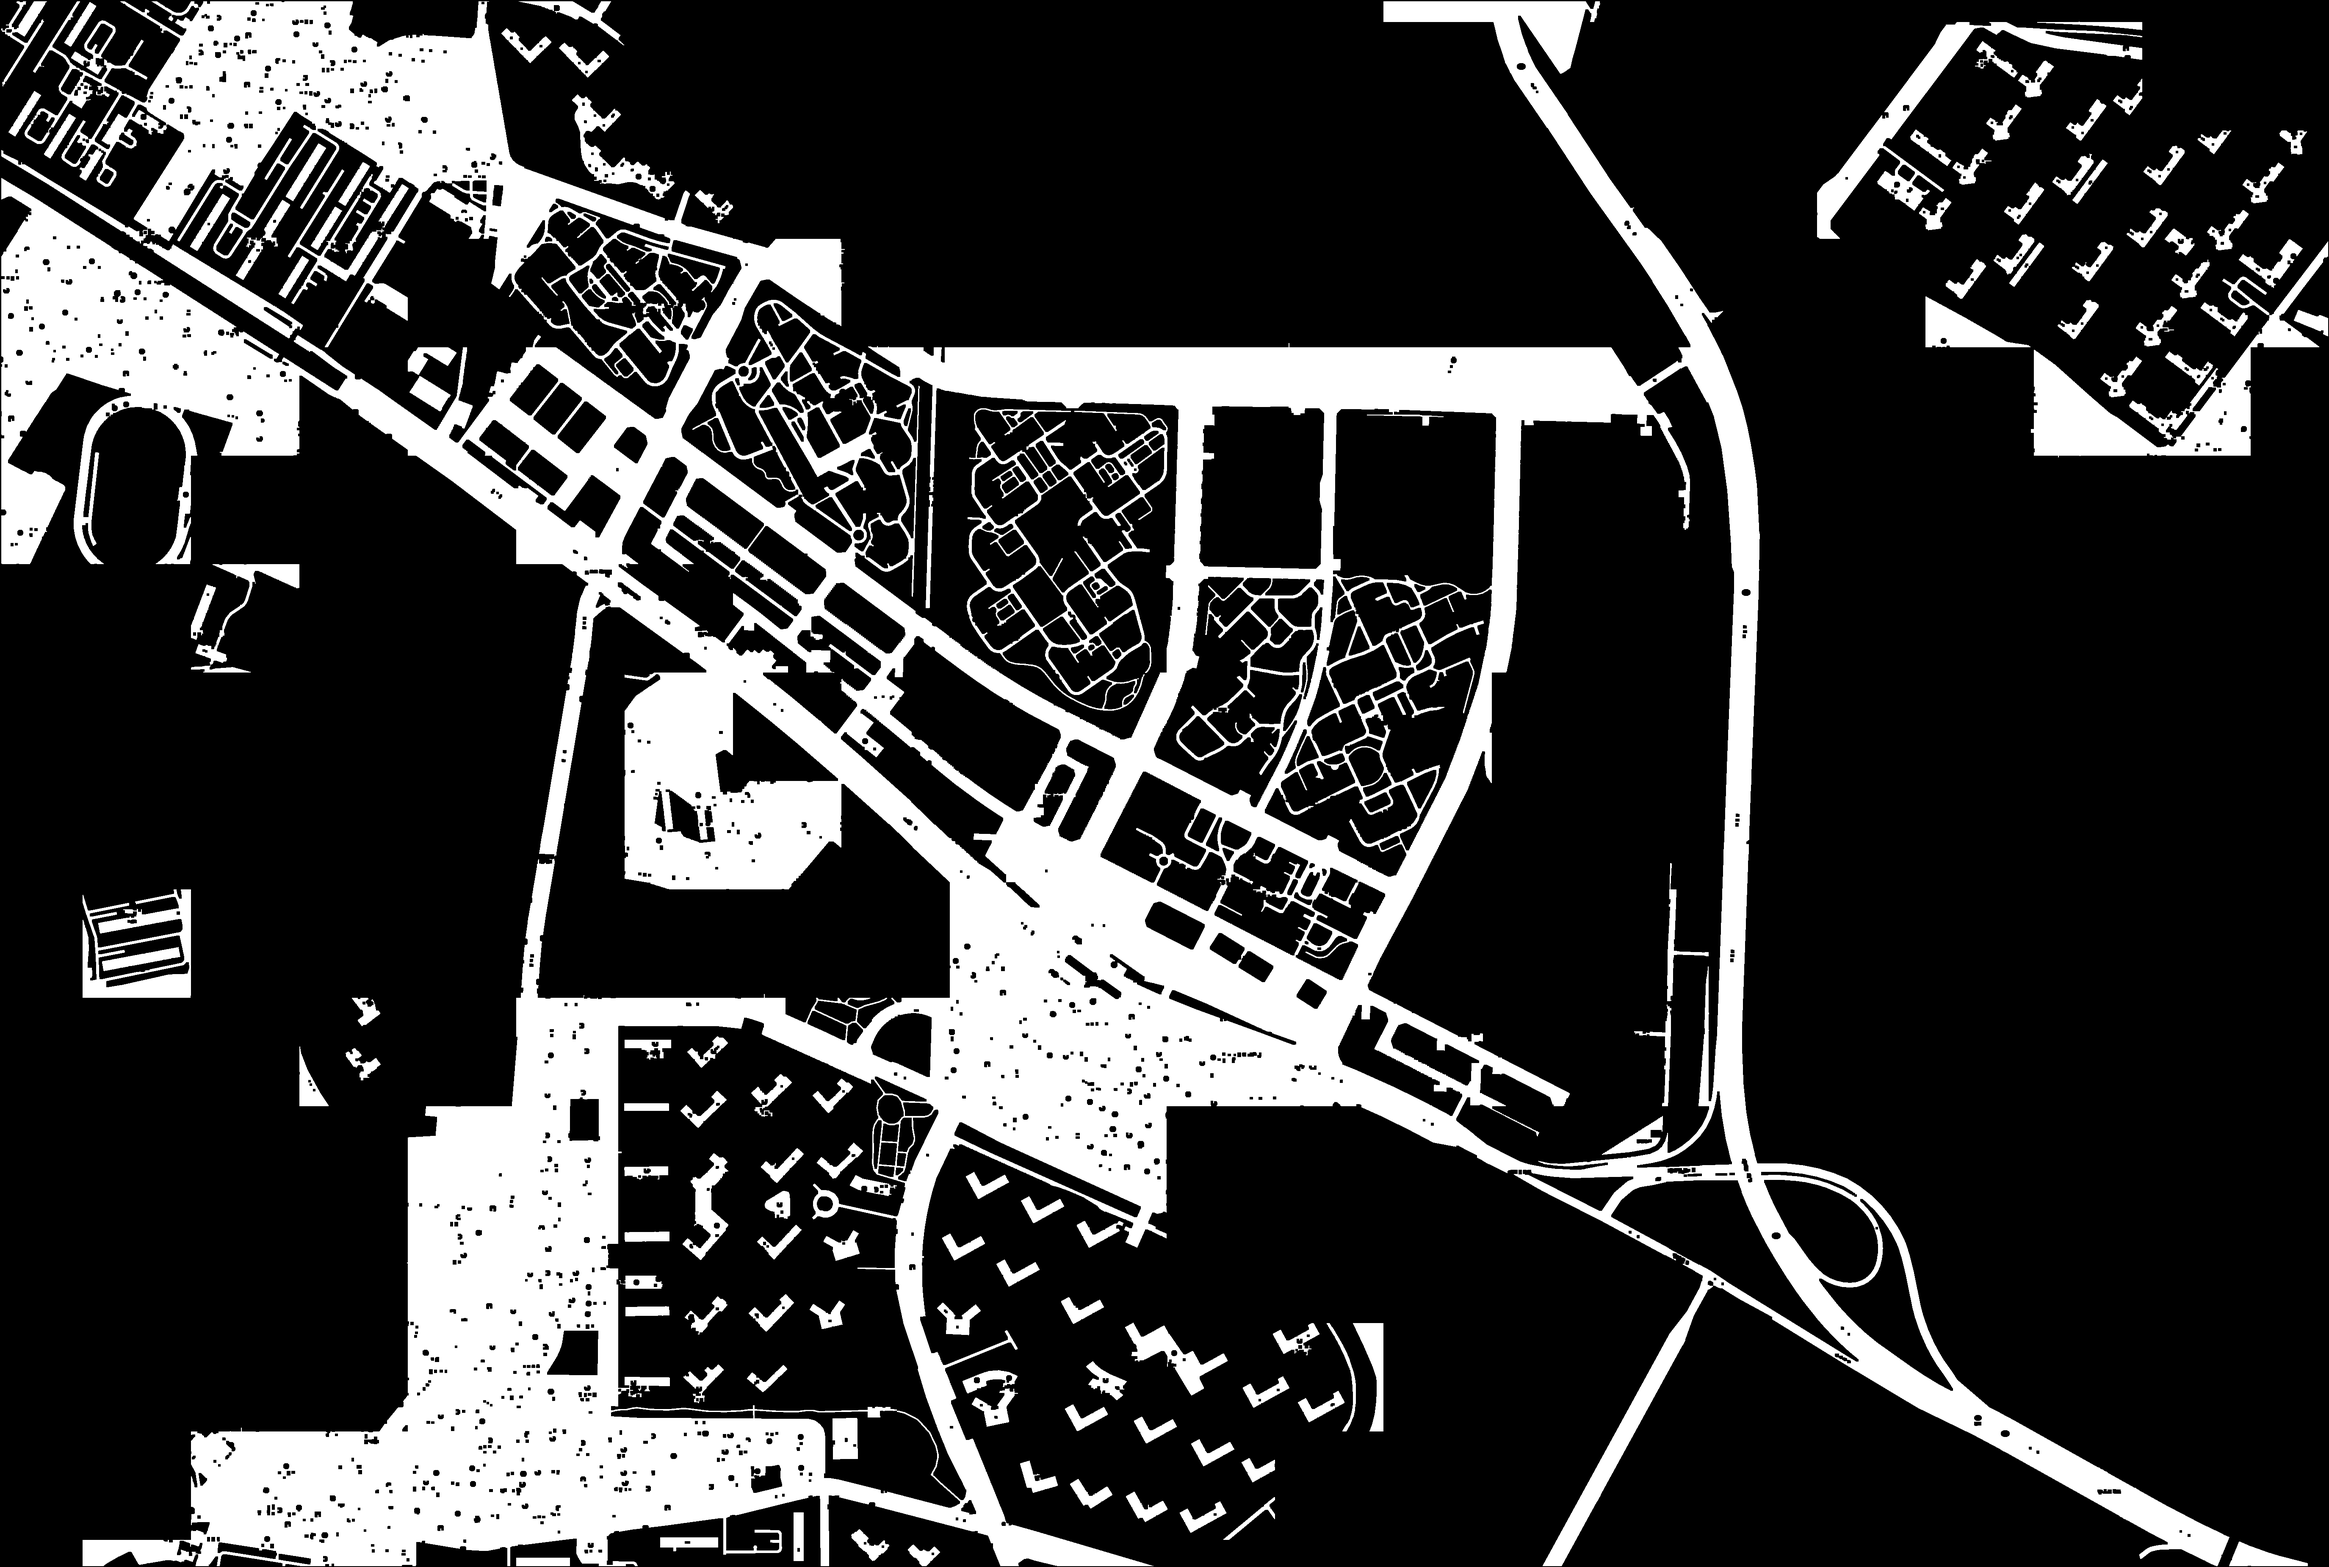
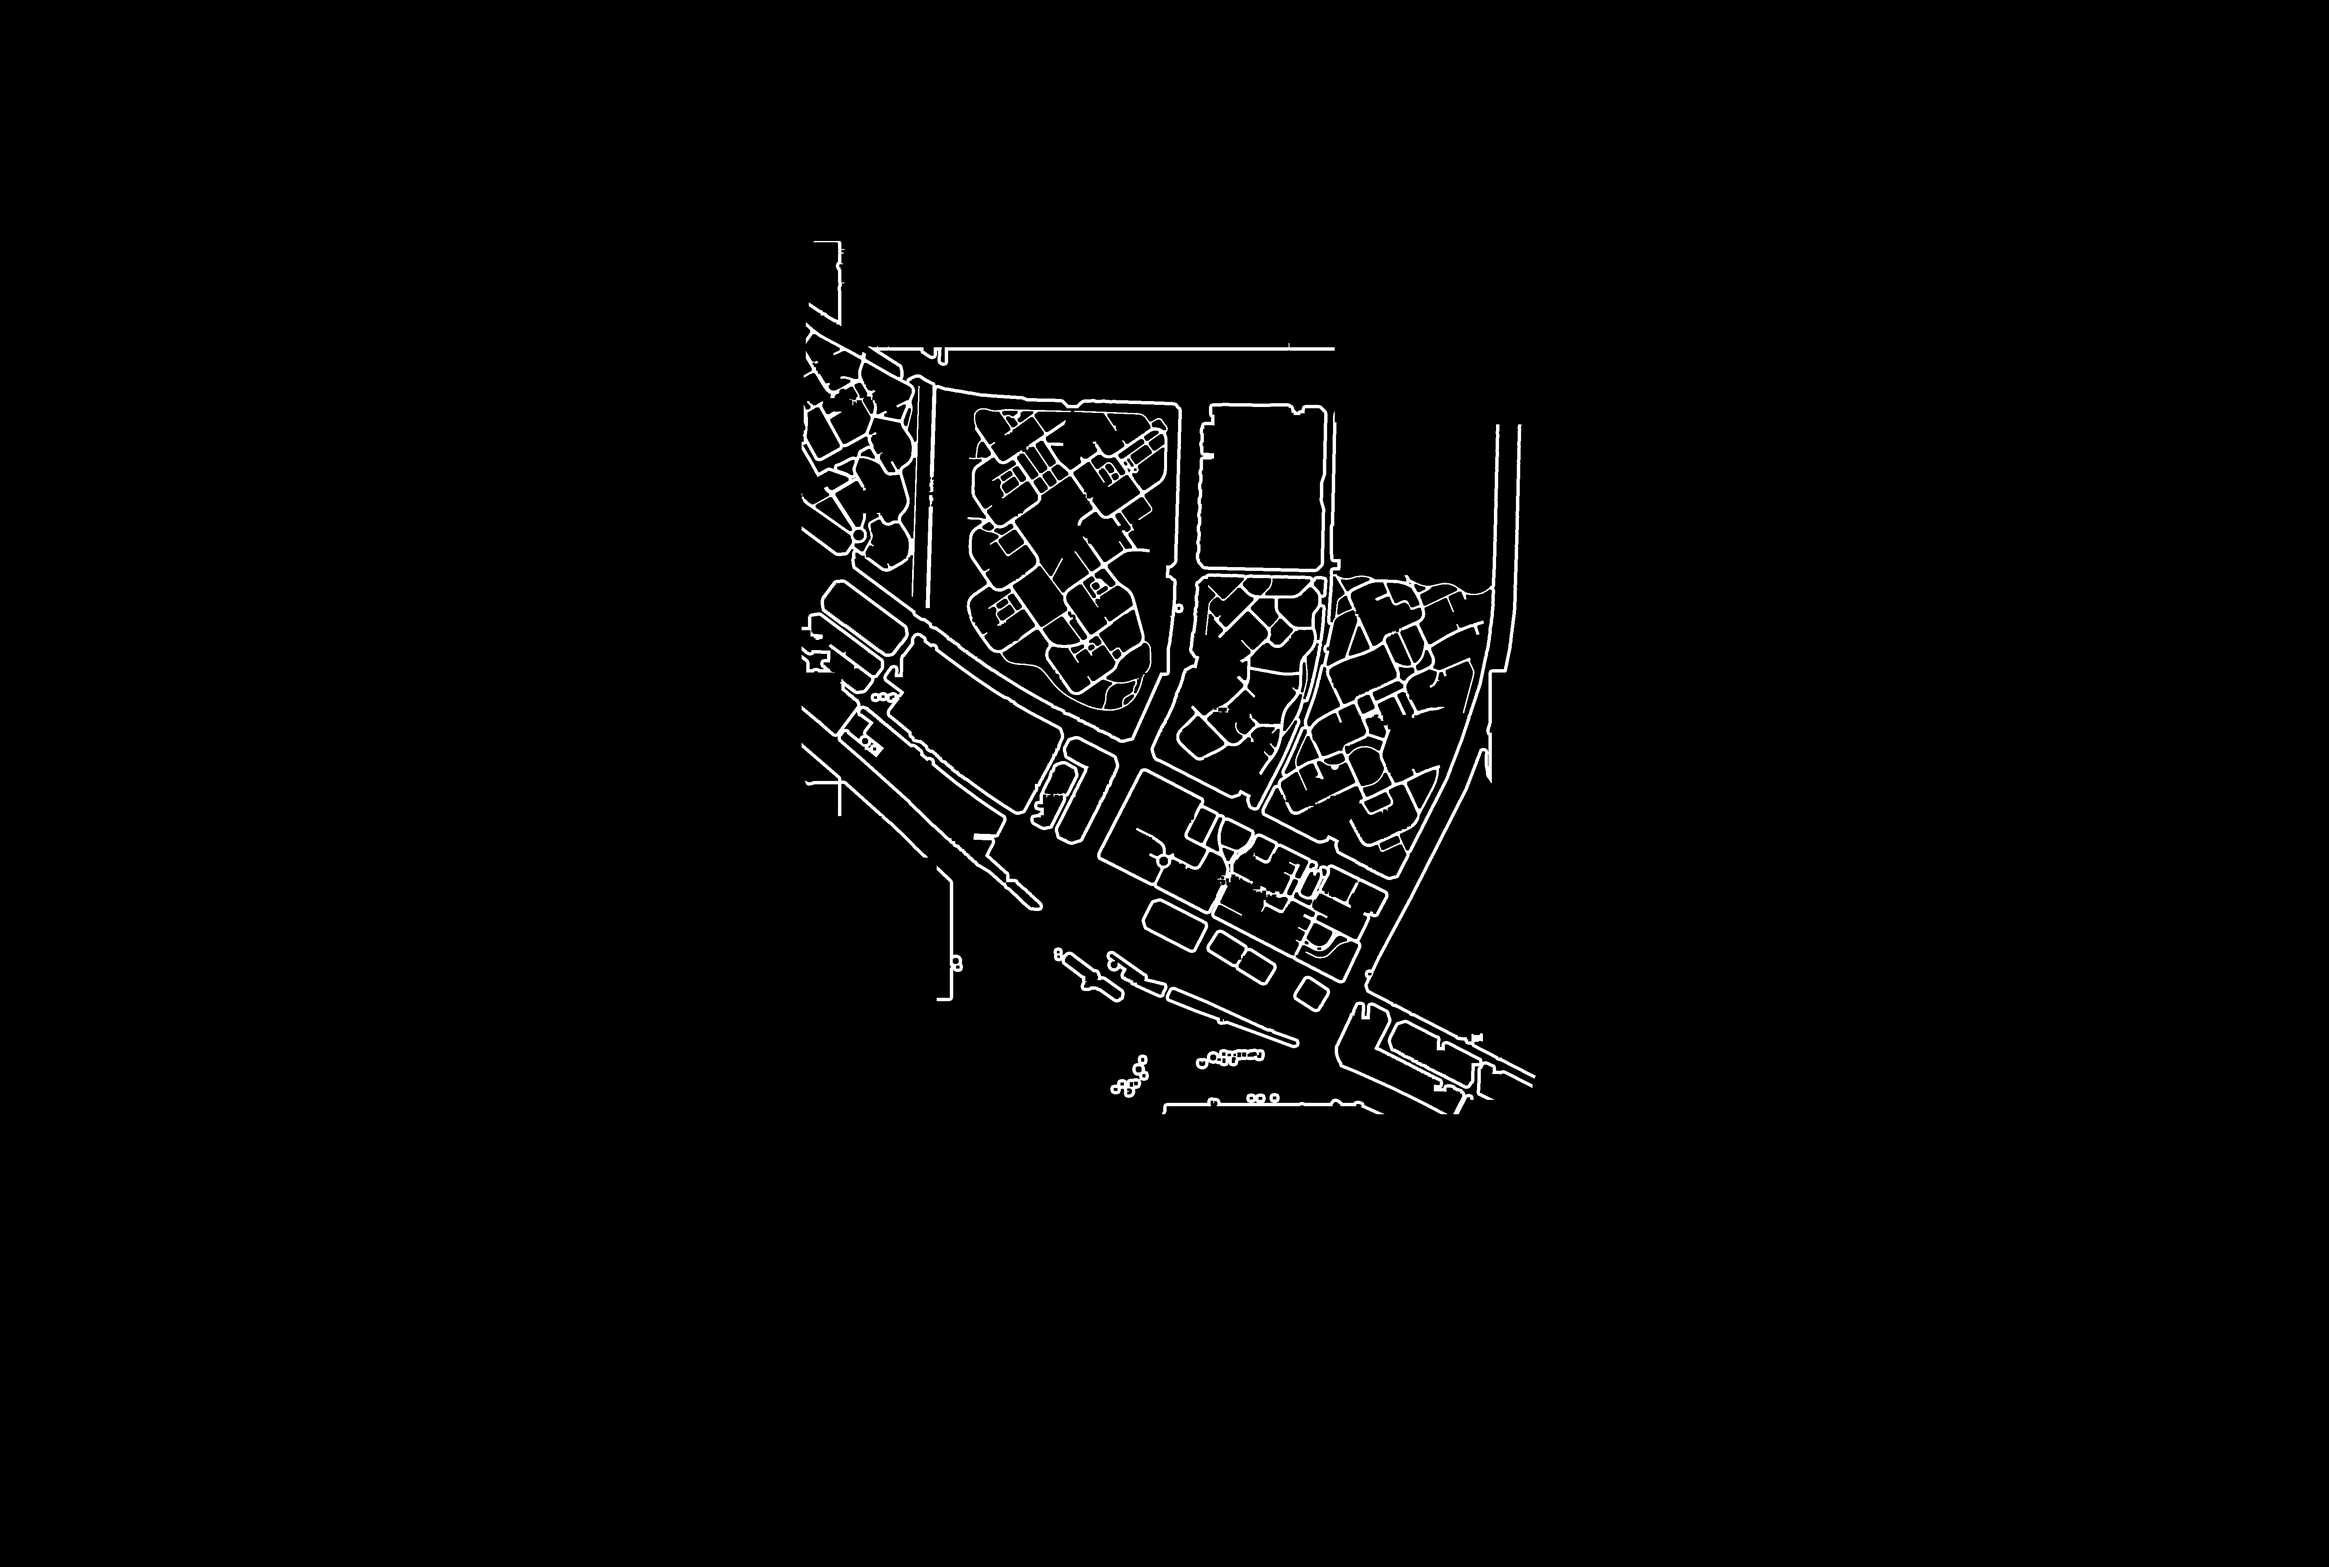
작업 중: 차로 가운데를 빼고 보도만 남기기, 대상 단지 둘레로 범위 제한
아직 검증 전이다 - 연결망이 28조각으로 갈라졌다.

Claude-Session: https://claude.ai/code/session_013N7iR3NewTY4Yma4P6eBf8

diff --git a/tools/make_walk.py b/tools/make_walk.py
@@ -41,6 +41,8 @@ BUILDINGS = [
     os.path.join(ROOT, "web", "src", "data", "context.json"),
     os.path.join(ROOT, "web", "src", "data", "offices.json"),
 ]
+# 마스크를 만들 범위의 기준이 되는 단지. 이 둘레만 남기고 나머지 동네는 버린다.
+RANGE_COMPLEXES = {"prugio", "hoban1", "hoban2", "hoban3", "hoban3_amenity"}
 
 EARTH_C = 20037508.342789244
 
@@ -78,6 +80,17 @@ BLOCK_COLORS = [
 # 건물은 흰 면과 색이 같다. 폴리곤으로 빼되, 벽에 딱 붙은 픽셀은 걸을 수 없으니
 # 조금 넉넉히 뺀다 (사람 어깨 폭 + 트레이싱 오차).
 BUILDING_PAD_M = 1.5
+
+# 차로 한복판은 걷는 데가 아니다. 걸을 수 있는 면의 가장자리에서 이만큼만 남기고
+# 가운데를 판다 - 넓은 도로는 양쪽 보도 두 줄이 되고, 원래 이보다 좁은 단지 내
+# 보행로는 그대로 남는다.
+#
+# 이러면 도로 하나가 양쪽으로 갈라져 '건너가기' 가 사라진다. 횡단보도 데이터가 없어
+# 자동으로는 못 잇는다 - 편집기에서 손으로 칠하라는 뜻이고, 그러라고 만든 것이다.
+SIDEWALK_M = 4.0
+
+# 다 칠할 필요 없다. 더마크·풍무 1~3차와 그 주변 상가까지가 범위다.
+RANGE_PAD_M = 200.0
 
 MIN_BLOB_M2 = 400     # 이보다 작은 조각은 길이 아니다 (라벨·아이콘 잔해)
 CLOSE_M = 3.0         # POI 아이콘·글자가 길을 끊은 자리를 메운다
@@ -118,6 +131,9 @@ def main() -> None:
     # 건물을 뺀다. 흰 면과 색이 같아 색으로는 못 가르지만 폴리곤은 이미 있다.
     stamp = Image.new("1", (w, h), 0)
     d = ImageDraw.Draw(stamp)
+    # 범위 판정용은 따로 찍는다 - 분석 대상 단지만이다 (그라센트·업무시설 제외)
+    range_stamp = Image.new("1", (w, h), 0)
+    rd = ImageDraw.Draw(range_stamp)
     n = 0
     for src in BUILDINGS:
         if not os.path.exists(src):
@@ -125,7 +141,10 @@ def main() -> None:
         doc = json.load(open(src, encoding="utf-8"))
         for c in doc["complexes"]:
             for b in c["buildings"]:
-                d.polygon([to_px(meta, lon, lat) for lon, lat in b["poly"]], fill=1)
+                poly = [to_px(meta, lon, lat) for lon, lat in b["poly"]]
+                d.polygon(poly, fill=1)
+                if c["id"] in RANGE_COMPLEXES:
+                    rd.polygon(poly, fill=1)
                 n += 1
     pad = max(1, int(round(BUILDING_PAD_M / mpp)))
     built = ndi.binary_dilation(np.asarray(stamp, bool), np.ones((pad * 2 + 1,) * 2))
@@ -140,6 +159,21 @@ def main() -> None:
     walk = ndi.binary_opening(walk, np.ones((k_open, k_open)))
     walk = ndi.binary_closing(walk, np.ones((k_close, k_close)))
     walk &= ~built     # 닫으면서 건물을 다시 먹었을 수 있다
+
+    # 차로 가운데를 판다. 가장자리에서 SIDEWALK_M 안쪽만 남긴다.
+    edge = ndi.distance_transform_edt(walk) * mpp
+    wide = walk & (edge > SIDEWALK_M)
+    walk &= ~wide
+    print(f"  차로 가운데 {wide.sum() * mpp**2 / 10000:.1f} ha 제외 "
+          f"(가장자리 {SIDEWALK_M} m 만 남김)")
+
+    # 범위를 자른다. 분석 대상 네 단지와 그 부대시설 둘레만 본다.
+    near = ndi.binary_dilation(
+        np.asarray(range_stamp, bool),
+        ndi.generate_binary_structure(2, 2),
+        iterations=int(round(RANGE_PAD_M / mpp)))
+    walk &= near
+    print(f"  범위 밖 제외 (대상 단지에서 {RANGE_PAD_M:.0f} m 안쪽만)")
 
     lab, cnt = ndi.label(walk)
     if cnt:
